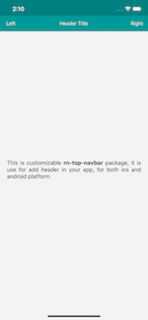
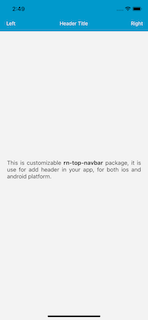
- Changed nav and status bar styles - Updated image size

Changed region(s): [[0.0, 0.0, 1.0, 0.0938]]

diff --git a/example/App.js b/example/App.js
@@ -6,16 +6,16 @@ import Header from '@mindinventory/rn-top-navbar';
 const App = () => {
   return (
     <>
-      <Header style={{ backgroundColor: '#009999' }} statusBarBackground='#008080' barStyle='light-content'>
-        <Header.Left style={{ backgroundColor: '#009999', width: "15%" }}>          
-          <Icon name='arrow-left' style={{color: '#fff', fontSize: 18}} />
-        </Header.Left>
-        <Header.Body style={{ backgroundColor: '#009999', width: "70%" }}>
+      <Header style={{ backgroundColor: '#ff6666' }} statusBarBackground='#ff6666' barStyle='light-content'>
+        {/* <Header.Left style={{ backgroundColor: '#ff6666', width: "15%" }}>          
+          <Icon name='arrow-left' style={{color: '#fff', fontSize: 18}} />          
+        </Header.Left> */}
+        <Header.Body style={{ backgroundColor: '#ff6666', width: "70%" }}>
           <Text style={{color: '#fff'}}>Header Title</Text>
         </Header.Body>
-        <Header.Right style={{ backgroundColor: '#009999', flexDirection: 'row', width: '15%' }}>
-          <Icon name='bars' style={{color: '#fff', fontSize: 18}} />          
-        </Header.Right>
+        {/* <Header.Right style={{ backgroundColor: '#ff6666', flexDirection: 'row', width: '15%' }}>
+          <Icon name='bars' style={{color: '#fff', fontSize: 18}} />                    
+        </Header.Right> */}
       </Header>
       <SafeAreaView style={styles.conatiner}>
         <Text style={{marginHorizontal: 20, textAlign: 'justify', fontSize: 16}}>This is customizable <Text style={{fontWeight: 'bold'}}>rn-top-navbar</Text> package,
